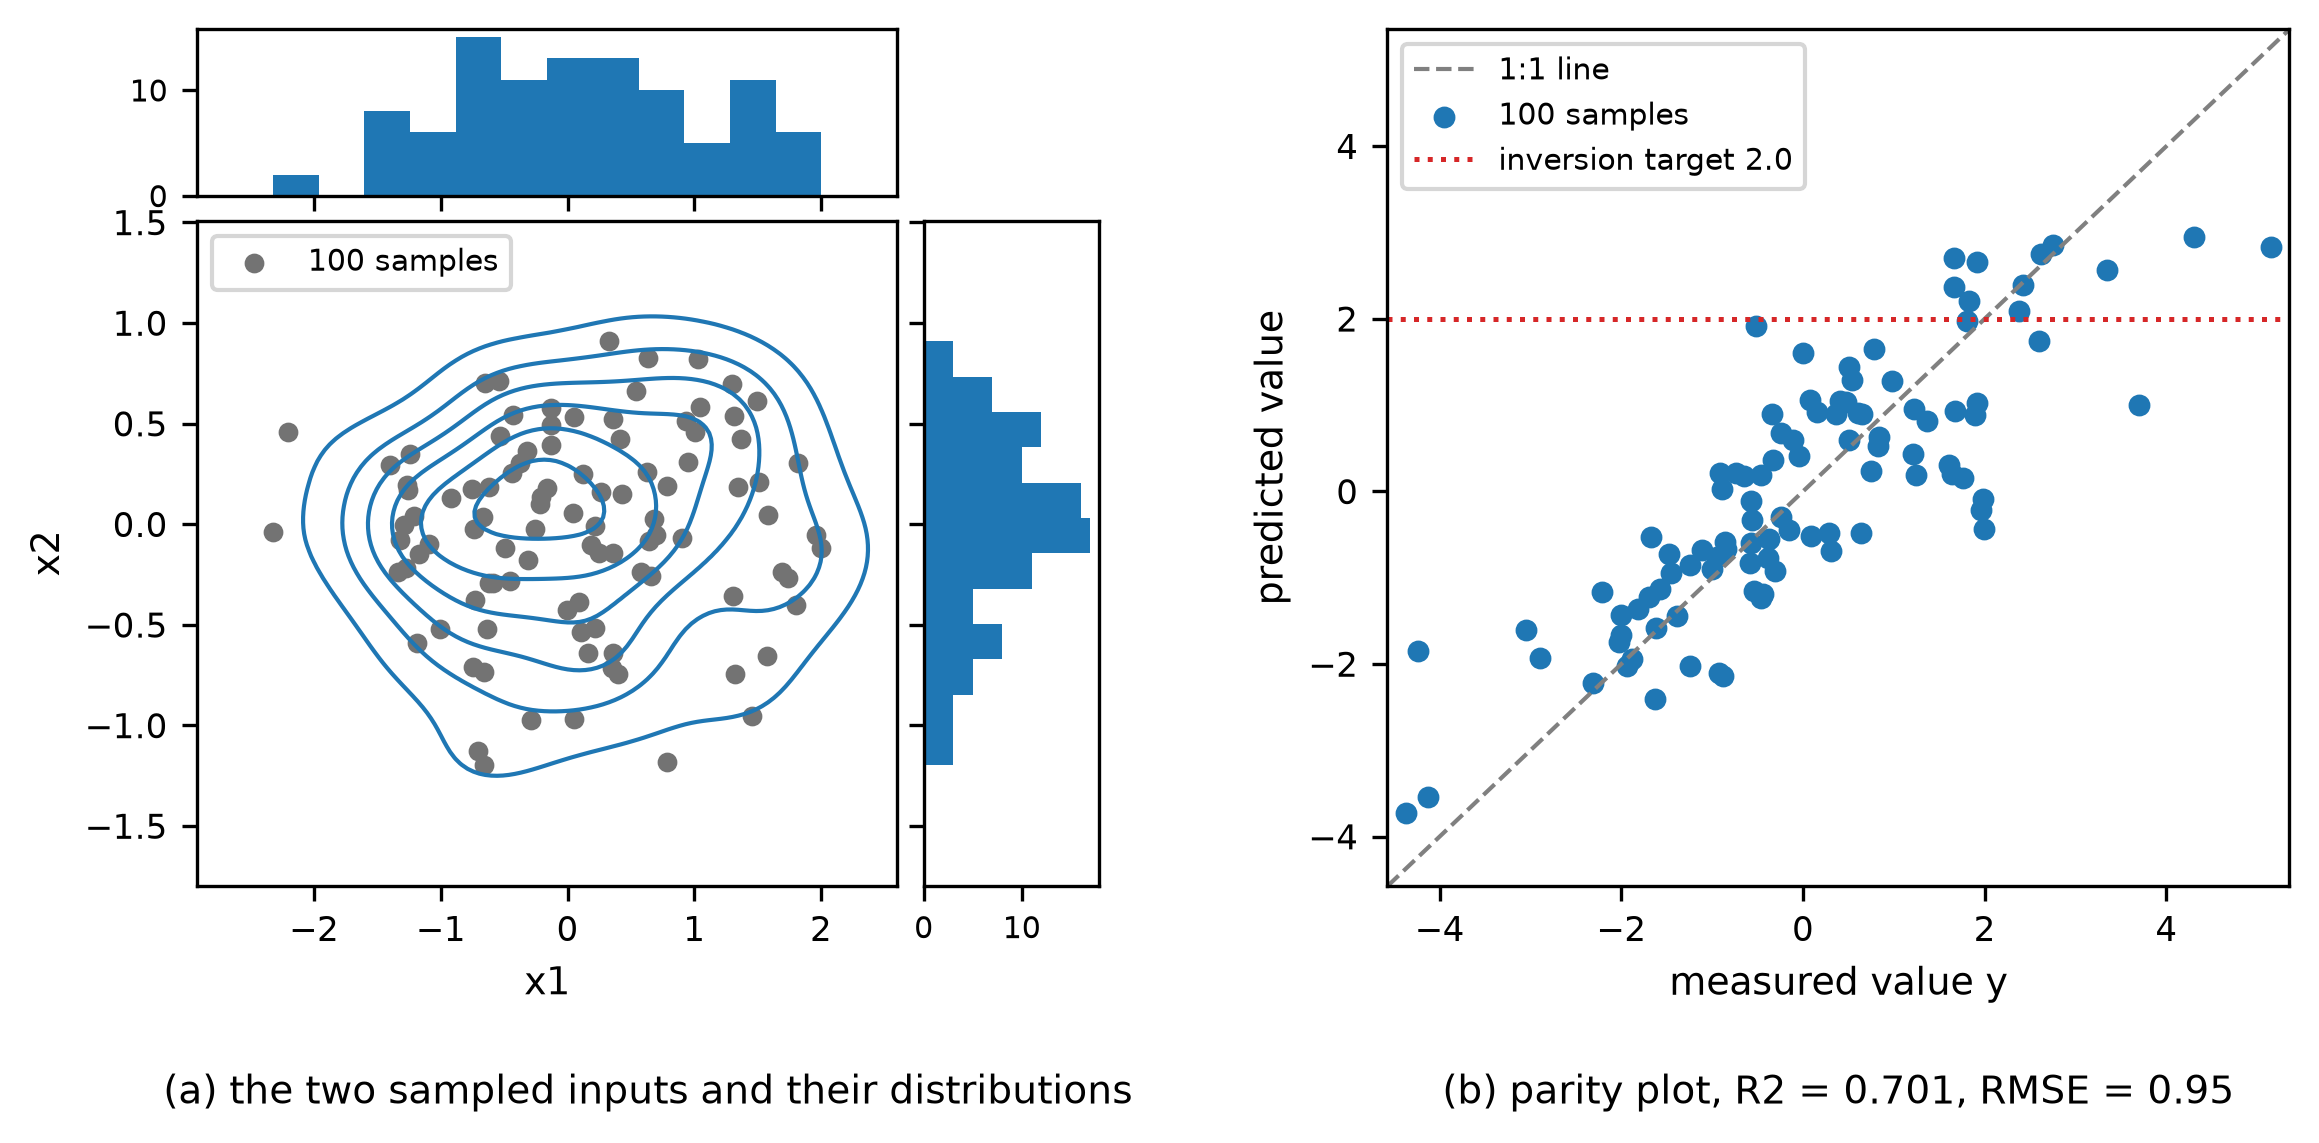
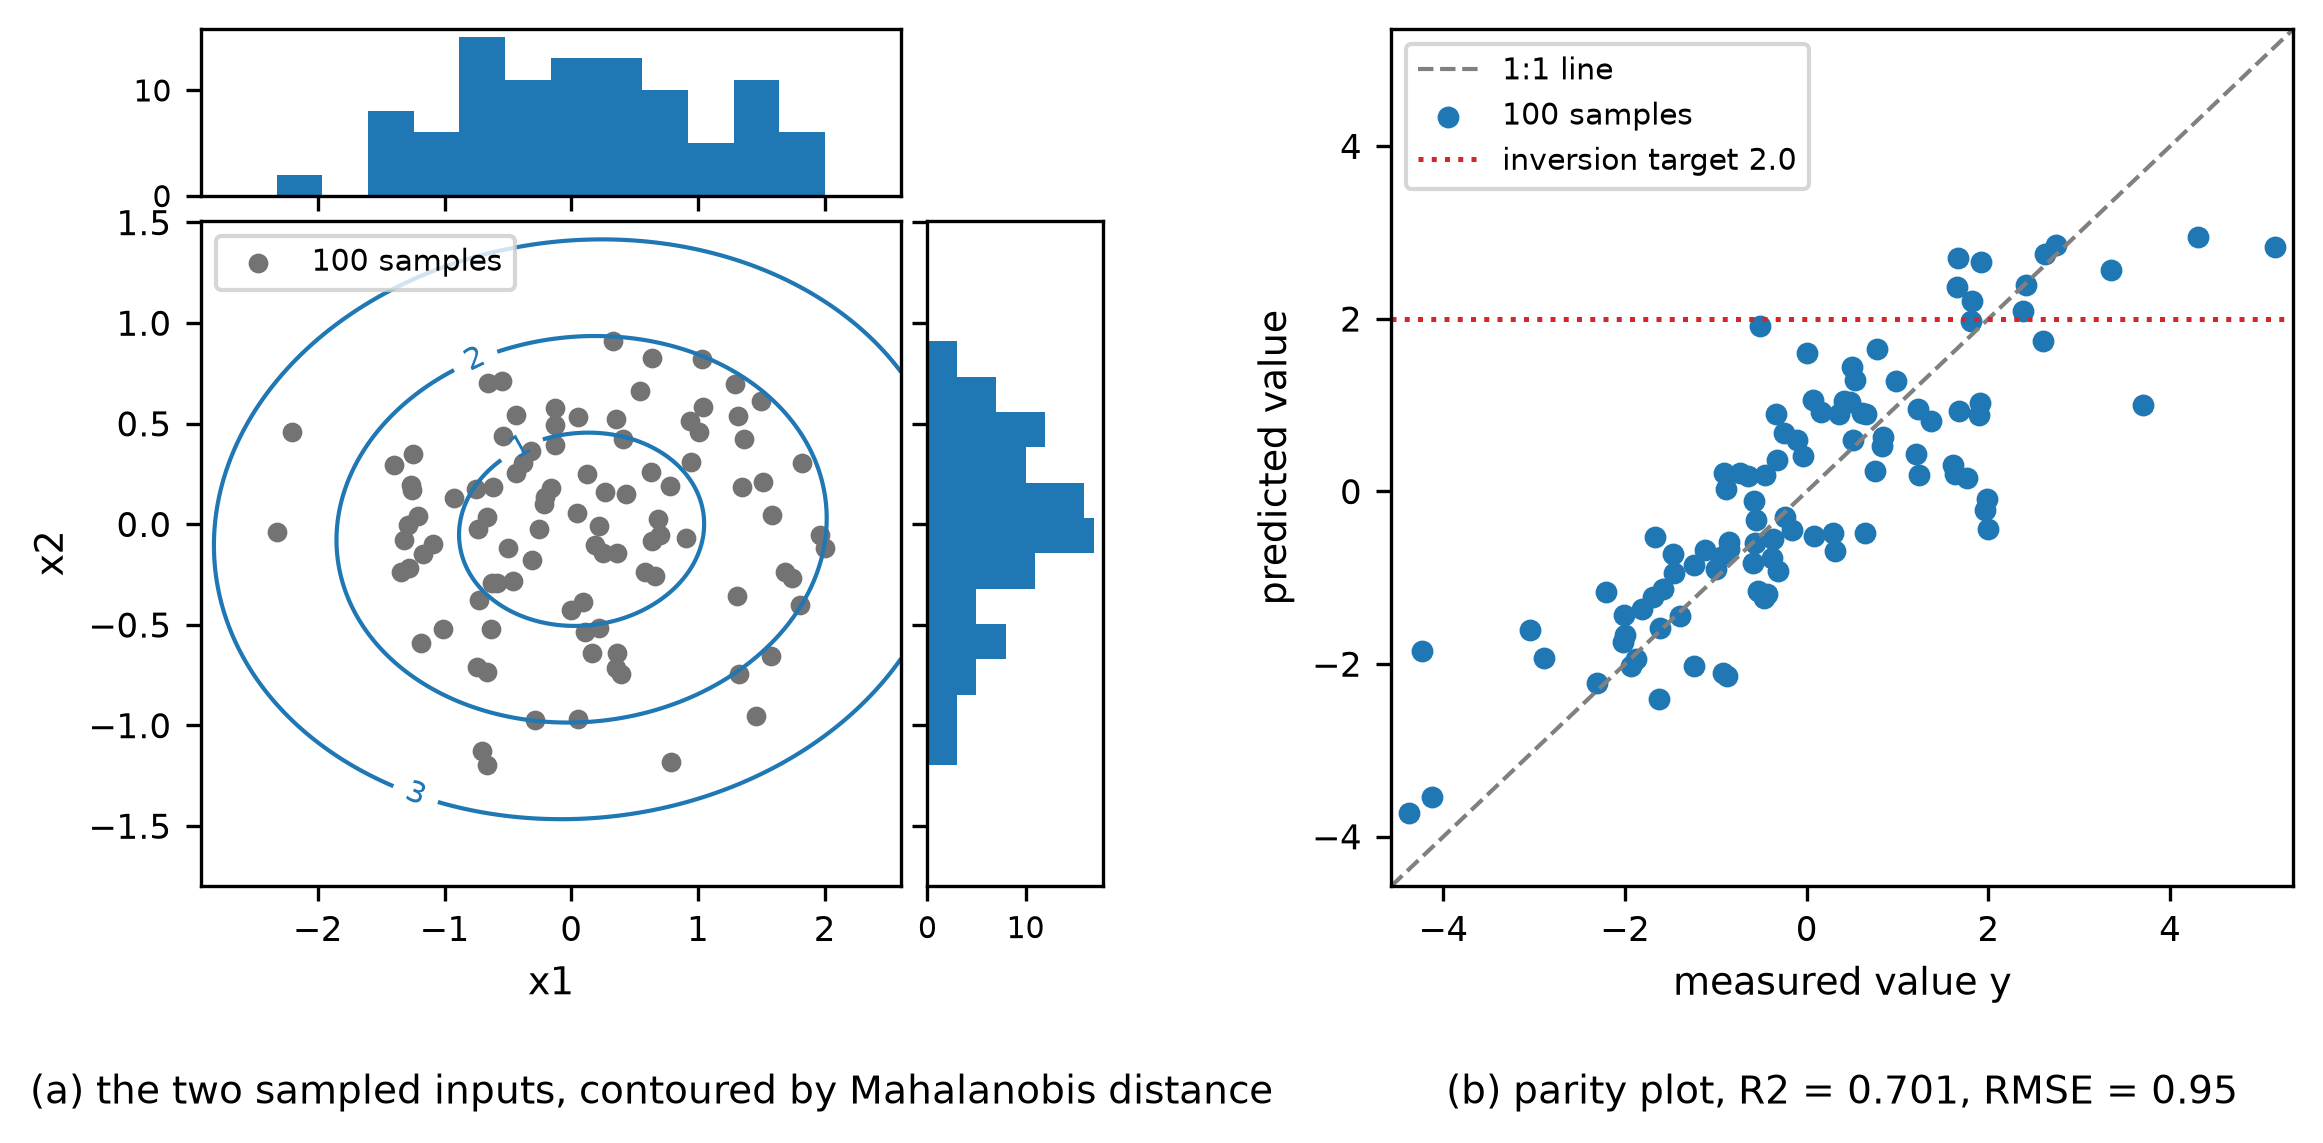
docs(Inversion-Problem): contour the inputs by Mahalanobis distance
A density estimate needed a term of its own and said nothing the document
uses later. Mahalanobis distance is the same quantity Hotelling T2 squares
in score space, so the contours of Fig 3 (a) now name the ruler that
Appendix C bounds. Drop the density estimate and its glossary entry.

diff --git a/Models/Inversion-Problem/inversion_problem_fig.py b/Models/Inversion-Problem/inversion_problem_fig.py
@@ -1,6 +1,6 @@
 """Draw the Appendix B and Appendix C figures of inversion-problem.md."""
 __author__ = 'yRocket'
-__version__ = "0.2.1.2026.8.29"  # Semantic Versioning: Major.Minor.Patch.Date(YYYY.M.D)
+__version__ = "0.3.0.2026.8.29"  # Semantic Versioning: Major.Minor.Patch.Date(YYYY.M.D)
 
 import argparse
 import pathlib
@@ -12,7 +12,7 @@ from matplotlib import pyplot as plt
 from matplotlib.colors import TABLEAU_COLORS
 from scipy.linalg import null_space
 from scipy.optimize import minimize
-from scipy.stats import chi2, gaussian_kde
+from scipy.stats import chi2
 from sklearn.cross_decomposition import PLSRegression
 from sklearn.decomposition import PCA
 from sklearn.ensemble import GradientBoostingRegressor
@@ -70,11 +70,16 @@ def draw_parity(out_folder: pathlib.Path) -> pathlib.Path:
     ax_right = fig.add_subplot(left[1, 1], sharey=ax_main)
     ax_parity = fig.add_subplot(outer[1])
 
-    # joint density of the two sampled inputs
-    grid_x, grid_y = np.mgrid[x_data[:, 0].min() - 0.6:x_data[:, 0].max() + 0.6:120j,
-                              x_data[:, 1].min() - 0.6:x_data[:, 1].max() + 0.6:120j]
-    density = gaussian_kde(x_data.T)(np.vstack([grid_x.ravel(), grid_y.ravel()])).reshape(grid_x.shape)
-    ax_main.contour(grid_x, grid_y, density, levels=6, colors=COLORS[0], linewidths=1.0)
+    # Mahalanobis distance from the sample centre, in units of standard deviation
+    grid_x, grid_y = np.mgrid[x_data[:, 0].min() - 0.6:x_data[:, 0].max() + 0.6:200j,
+                              x_data[:, 1].min() - 0.6:x_data[:, 1].max() + 0.6:200j]
+    centre = x_data.mean(axis=0)
+    cov_inv = np.linalg.inv(np.cov(x_data, rowvar=False))
+    offset = np.stack([grid_x - centre[0], grid_y - centre[1]], axis=-1)
+    distance = np.sqrt(np.einsum('...i,ij,...j->...', offset, cov_inv, offset))
+    lines = ax_main.contour(grid_x, grid_y, distance, levels=[1.0, 2.0, 3.0],
+                            colors=COLORS[0], linewidths=1.0)
+    ax_main.clabel(lines, fmt='%.0f', fontsize=font_size(0.8))
     ax_main.scatter(x_data[:, 0], x_data[:, 1], s=14, color='0.45', label='100 samples')
     ax_main.set_xlabel('x1', fontsize=font_size())
     ax_main.set_ylabel('x2', fontsize=font_size())
@@ -98,7 +103,8 @@ def draw_parity(out_folder: pathlib.Path) -> pathlib.Path:
     ax_parity.legend(fontsize=font_size(0.8), loc='upper left')
 
     fig.subplots_adjust(bottom=0.20)
-    sub_caption(fig, [ax_main, ax_top, ax_right], '(a) the two sampled inputs and their distributions')
+    sub_caption(fig, [ax_main, ax_top, ax_right],
+                '(a) the two sampled inputs, contoured by Mahalanobis distance')
     sub_caption(fig, [ax_parity], f'(b) parity plot, R2 = {r2:.3f}, RMSE = {rmse:.2f}')
 
     out_path = out_folder / 'appendix-b-parity.png'
@@ -106,7 +112,7 @@ def draw_parity(out_folder: pathlib.Path) -> pathlib.Path:
     fig.savefig(out_path, dpi=DPI, bbox_inches='tight')
     plt.close(fig)
 
-    # the samples the histograms, the density and the parity plot received
+    # the samples the histograms, the contours and the parity plot received
     sample_path = out_folder / 'appendix-b-samples.csv'
     np.savetxt(sample_path, np.column_stack([x_data, y_data, y_pred]), delimiter=',',
                header='x1,x2,y,y_pred', comments='', fmt='%.6f')

diff --git a/Models/Inversion-Problem/inversion-problem.md b/Models/Inversion-Problem/inversion-problem.md
@@ -1,5 +1,5 @@
 # Inverse Problem and Model Inversion
-Rev. 15 | Created: 2026-08-28 | Updated: 2026-08-29 01:35 CDT
+Rev. 16 | Created: 2026-08-28 | Updated: 2026-08-29 01:38 CDT
 
 학습된 model 은 보통 입력에서 출력을 계산하는 방향으로 쓰인다. 원하는 출력을 먼저 정하고 그것을 만들어 내는 입력을 되찾는 문제가 inverse problem 이고, 이미 학습된 model 을 그 목적에 되돌려 쓰는 방법이 model inversion 이다. 이 문서는 두 용어를 정의하고, 해법을 다섯 축으로 분류한 다음, latent variable model inversion 의 고전적 결과와 model 종류별 inversion 방법을 정리한다.
 
@@ -295,9 +295,9 @@ Table 3. Libraries for model inversion
 - Ill-posed problem: 해의 존재성, 유일성, 안정성 중 하나 이상이 깨진 문제이다.
 - Inverse design: 목표 성능을 먼저 정하고 그 성능을 내는 설계안을 찾는 문제이다.
 - Joint-Y PLS: 여러 site 의 데이터를 공통 출력으로 묶어 하나의 latent space 에서 다루는 PLS 확장이다.
-- Kernel density estimate: 표본 하나하나에 좁은 종 모양 함수를 얹어 더함으로써 분포의 밀도를 추정하는 방법이다.
 - Latent variable: 관측 변수들을 적은 수로 요약한 내부 좌표이며, PLS 에서는 score 라고 부른다.
 - Loading: Latent 변수와 관측 변수를 잇는 계수이며, score 에서 입력을 복원할 때 쓰인다.
+- Mahalanobis distance: 각 방향의 산포로 나누어 재는 거리이며, 중심에서 표준편차 몇 배만큼 떨어졌는지를 나타낸다.
 - MCMC: 사후분포를 따르는 표본을 연쇄적으로 생성하는 sampling 방법이며 Markov chain Monte Carlo 의 약자이다.
 - Minimum-norm solution: 목표를 똑같이 만족하는 해가 여럿일 때 그중 norm 이 가장 작은 해이다.
 - Model inversion: 학습된 model 을 뒤집어 목표 출력을 내는 입력을 구하는 방법이다.
@@ -367,7 +367,7 @@ print("input spread   :", np.round(x_alt.max(axis=0) - x_alt.min(axis=0), 3))
 
 뒤집기 전에 뒤집을 model 부터 본다. Fig 3 (a) 는 학습에 쓴 100 개 표본의 두 process input 을 그린 것이다. 등고선은 두 입력이 함께 이루는 밀도이고, 위와 오른쪽의 막대는 각 입력이 따로 이루는 분포이다. 두 입력은 평균이 0 으로 같고 산포만 달라 $x_1$ 의 표준편차가 $x_2$ 의 두 배이며, 그래서 구름이 가로로 늘어난 타원을 이룬다. 이 구름이 곧 model 이 배운 영역이다.
 
-등고선은 지형도의 등고선과 같은 뜻이다. 100 개 표본에서 kernel density estimate 로 밀도를 추정한 뒤, 그 값이 같은 점들을 이은 선이다. 안쪽 선일수록 밀도가 높아 표본이 몰린 곳이고, 바깥으로 갈수록 표본이 드물어진다. 선의 값은 밀도의 최대와 최소 사이를 같은 간격으로 자른 것이므로, 한 선이 확률 몇 % 를 담는다는 뜻은 아니다. 이 그림에서 등고선이 세로보다 가로로 넓은 것이 $x_1$ 의 산포가 더 크다는 사실을 그대로 보여 준다.
+등고선은 표본 중심에서 잰 Mahalanobis distance 이며, 안쪽부터 1, 2, 3 이다. 이 거리는 각 방향의 산포로 나누어 재므로, 산포가 큰 $x_1$ 쪽으로는 같은 거리라도 더 멀리까지 뻗는다. 그래서 등고선이 가로로 늘어난 타원이 되고, 한 점이 중심에서 표준편차 몇 배만큼 떨어졌는지를 그 타원으로 바로 읽는다. 3.1 의 Hotelling $T^{2}$ 가 score 공간에서 잰 이 거리의 제곱이며, Appendix C 는 그 값에 상한을 두어 해를 데이터가 덮은 영역 안에 가둔다.
 
 Fig 3 (b) 는 같은 100 개 표본의 parity plot 이며, 점 하나가 표본 하나이다. 가로축은 그 표본의 측정값 $y$ 이고 세로축은 같은 표본에 대한 model 의 예측 $\hat{y}$ 이므로, 점이 1:1 선 위에 있으면 그 표본을 정확히 맞춘 것이고 선에서 세로로 벗어난 거리가 그 표본의 잔차 $y - \hat{y}$ 이다.
 
